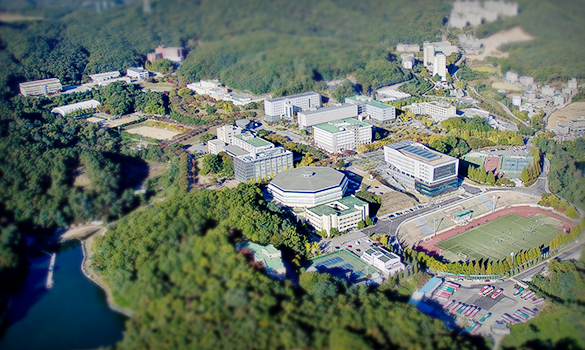
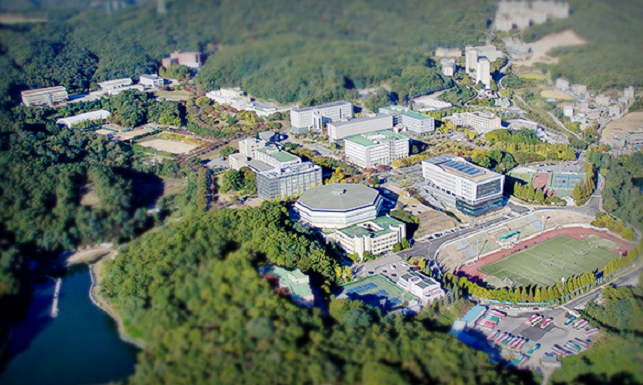
사진 수정 및 크기조절
사진 수정 하고 전체 프로그램 사이즈 늘렸습니다

diff --git a/PJDingDing/src/test/mainTest.java b/PJDingDing/src/test/mainTest.java
@@ -30,7 +30,7 @@ import javax.swing.JPanel;
 
 public class mainTest extends JFrame{
 
-	Image background = new ImageIcon("C:\\Users\\USER\\git\\PJddingdding\\PJDingDing\\src\\image\\map.png").getImage();
+	Image background = new ImageIcon("C:\\Users\\y0n\\Documents\\GitHub\\PJddingdding\\PJDingDing\\src\\image\\map.png").getImage();
     ImageIcon background1 = new ImageIcon(background);
 	
 	CardLayout cLayout = new CardLayout();
@@ -60,7 +60,7 @@ public class mainTest extends JFrame{
 		add("library", new library_Panel(this, cLayout));
 		
 		setDefaultCloseOperation(JFrame.EXIT_ON_CLOSE);
-		setSize(520, 400);
+		setSize(630, 450);
 		
 		setLocationRelativeTo(null);
 		setVisible(true);
